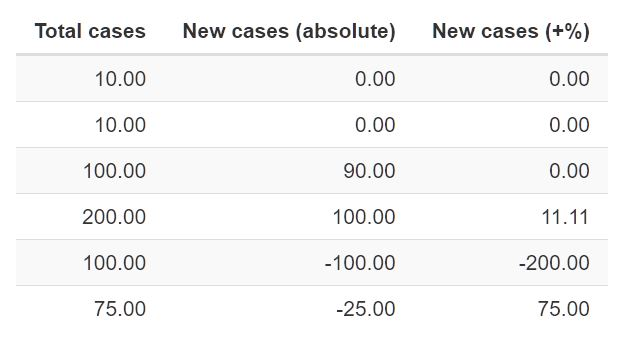
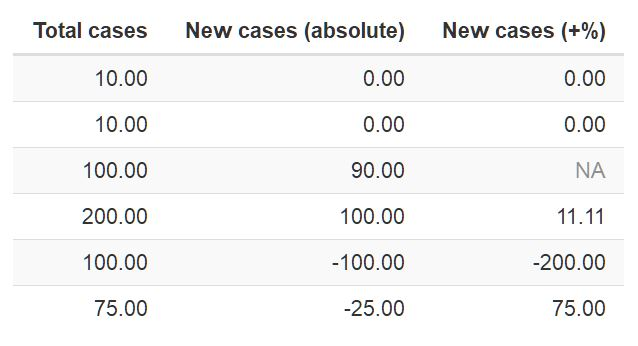
Solved another issue with get_daily_increment_percentage()

diff --git a/README.md b/README.md
@@ -45,8 +45,8 @@ The Sick tab displays plots concerning the number of people infected with COVID-
 * **Total cases (log)**: It is similar to the previous plot. It displays the total number of sick people (y axis) against the date (x axis) using a log10 scale for the y axis. In this case, the points in the y axis are not equally distributed. The distance between 10 and 100 is the same as the distance between 100 and 1000.
 * **New cases (absolute)**: Plots the number of people that get infected each day. The number of sick people is displayed in the y axis (using a linear scale) and the date, in the x axis. Using the previous example, if the first day there are 10 sick people and on the second day there are 10 new more cases, the numbers on the plot will be 10 and 10, respectively.
 
-* **New cases (+%)**: It is similar to the previous plot. It displays the percertange of new infections with respect to the previous day against the date. The percertange is plotted in the y axis and the date, again, in the x axis. The percertange represented is the percertange difference between the new cases of one date and the previous one. The following table offers an example. If the number of cases of the previous day is zero, the next date shows +0%.
-<img src="./www/table.JPG" width="421" height="236" />
+* **New cases (+%)**: It is similar to the previous plot. It displays the percertange of new infections with respect to the previous day against the date. The percertange is plotted in the y axis and the date, again, in the x axis. The percertange represented is the percertange difference between the new cases of one date and the previous one. The following table offers an example.
+<img src="./www/table.JPG" width="425" height="231" />
 
 The user can place the mouse over any point in the plot and obtain information about the date and the number of sick people. Which visualization is shown is controlled by clicking on the control panel checkboxes. The four visualizations can be displayed simultaneously. The date range is adjusted by moving the slider ends to the desired dates. In the next image we can see an example where the user has chosen two visualizations (total cases (log) and new cases (absolute)) and a date range between the 2020-03-11 and the 2020-04-7, both included.
 
